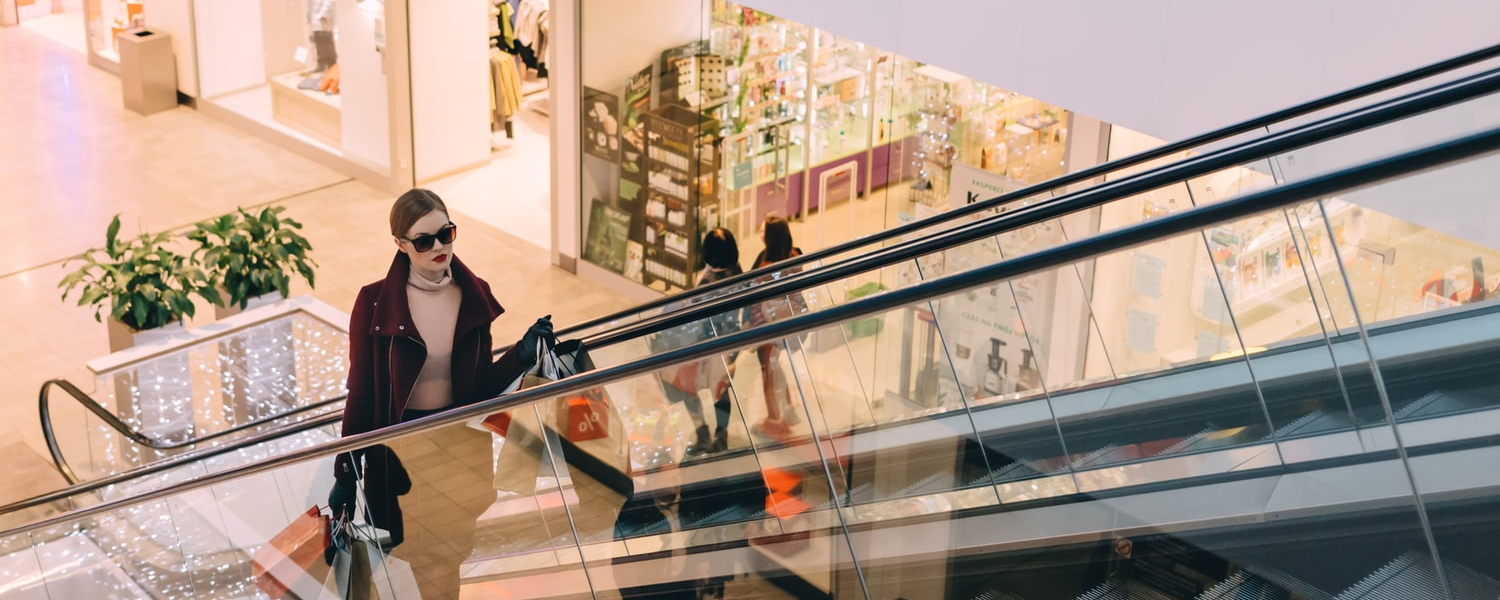
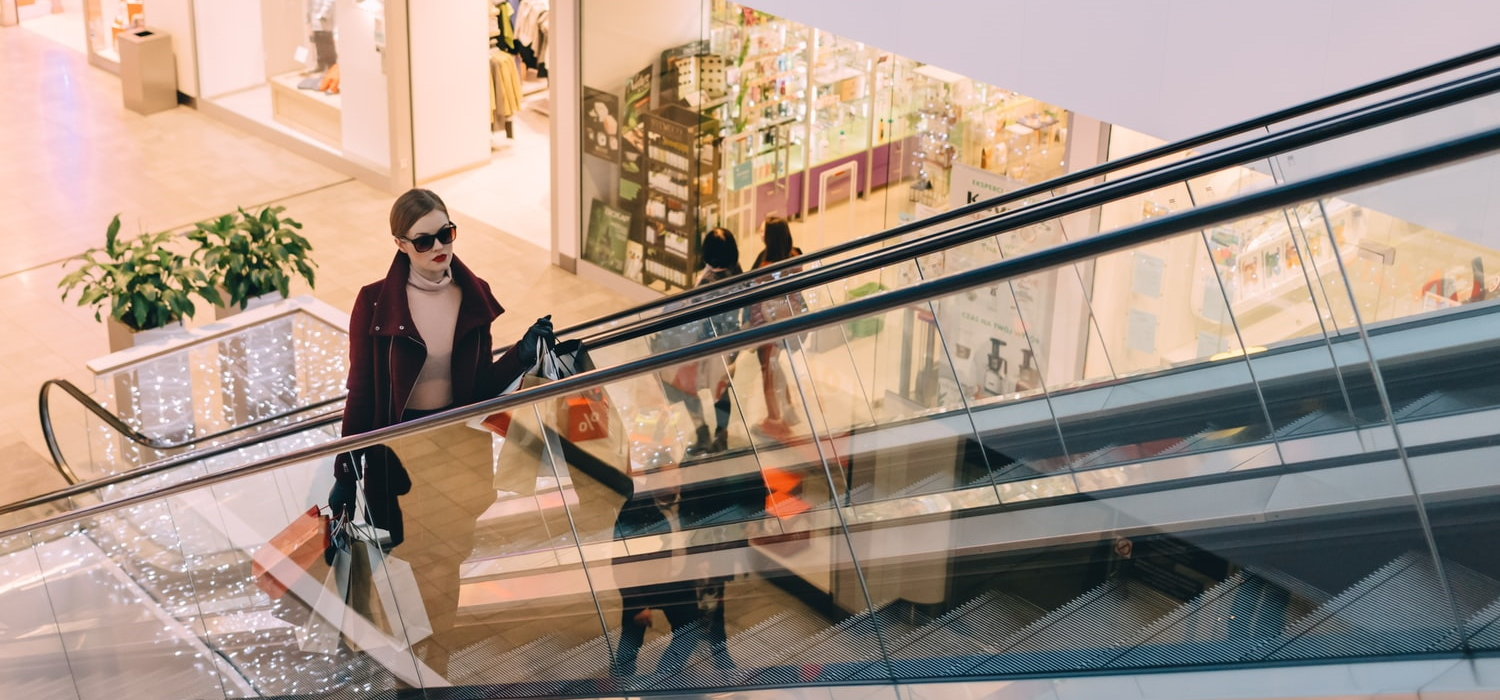
updated home page slider

diff --git a/src/main/webapp/styles/main.css b/src/main/webapp/styles/main.css
@@ -22,7 +22,7 @@
   .home-filler {	
     min-height: 60vh;	
     background: linear-gradient(rgba(0, 0, 0, 0.5), rgba(0, 0, 0, 0.5)),	
-      url("../images/home/home-filler.jpeg") center/cover fixed no-repeat;	
+      url("../images/home/home-store.jpg") center/cover fixed no-repeat;	
   }	
   .collection-link {	
     color: var(--mainYellow);	
